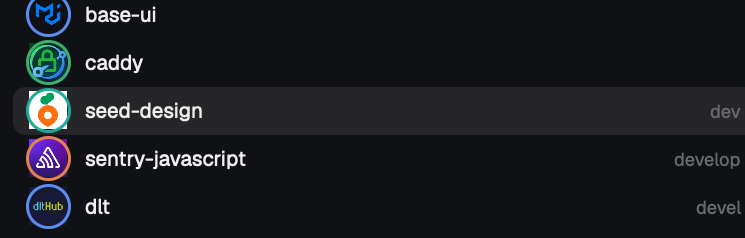
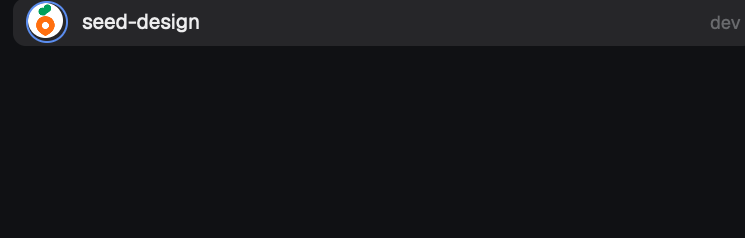
Calmer look: thin ring, round-clipped pictures, dot only for blocked or done

diff --git a/mods/spaces-pretty/main.js b/mods/spaces-pretty/main.js
@@ -382,13 +382,13 @@ export default class Spaces extends View {
 
   // Round avatar with a colored ring; a status dot on its corner when an agent works, waits or finishes.
   avatar(w, g, fill, t) {
-    const live = ["working", "blocked", "done"].includes(w.status);
+    const live = ["blocked", "done"].includes(w.status);
     const face = g?.owner
-      ? h_flex().size(24).flex_none().rounded(12).overflow_hidden().child(image(`avatars/${g.owner}.png`).size(24))
-      : h_flex().size(24).flex_none().rounded(12).bg(fill).items_center().justify_center().text_size(12).font_bold().text_color("#ffffff").child([...w.name][0]?.toUpperCase() ?? "?");
-    return div().relative().size(28).flex_none().rounded(14).border(2).border_color(fill).items_center().justify_center()
+      ? h_flex().size(22).flex_none().rounded(11).overflow_hidden().child(image(`avatars/${g.owner}.png`).size(22).rounded(11))
+      : h_flex().size(22).flex_none().rounded(11).bg(fill).items_center().justify_center().text_size(11).font_bold().text_color("#ffffff").child([...w.name][0]?.toUpperCase() ?? "?");
+    return div().relative().size(26).flex_none().rounded(13).border(1).border_color(fill).items_center().justify_center()
       .child(face)
-      .when(live, (el) => el.child(div().absolute().right(-3).bottom(-3).size(10).rounded(5).bg(tone(t, w.status)).border(2).border_color(t.chrome ?? t.background)));
+      .when(live, (el) => el.child(div().absolute().right(-2).bottom(-2).size(8).rounded(4).bg(tone(t, w.status)).border(1.5).border_color(t.chrome ?? t.background)));
   }
 
   row({ w, i, g, tree }, t) {

diff --git a/README.md b/README.md
@@ -17,8 +17,8 @@
 When you run a dozen agents across a dozen repos, the sidebar turns into a wall of identical letter tiles. spaces-pretty gives every space a face.
 
 - **GitHub owner avatar.** The org logo or user photo of the repo's `origin` becomes the space icon.
-- **Round, with a colored ring.** One color per repo, so a repo and all of its worktrees read as one family.
-- **Status dot.** A small dot on the avatar when an agent in that space is working, blocked, or done.
+- **Round, with a thin colored ring.** One color per repo, so a repo and all of its worktrees read as one family.
+- **Status dot.** A small dot on the avatar when an agent in that space is blocked or done.
 - **Tinted worktree rows.** The branch icon of a worktree takes its repo's color.
 - **Safe fallback.** No GitHub remote? You get a clean colored letter, like before.
 - **Yours still wins.** Colors you set yourself (`space.colors`) override the automatic one.

diff --git a/RECIPE.md b/RECIPE.md
@@ -3,9 +3,9 @@
 A Spaces sidebar where each space wears its GitHub owner's picture, and a repo's worktrees share a color.
 
 ## What you see
-- Space rows: a 28px round avatar (24px face inside a 2px ring in the repo color), the space name, then the usual repo/branch/ahead-behind tail.
+- Space rows: a 26px round avatar (22px face inside a 1px ring in the repo color; pictures are clipped round), the space name, then the usual repo/branch/ahead-behind tail.
 - Avatar: the GitHub owner picture when origin is on github.com, else a white bold letter (12px) on a repo-colored tile.
-- A 10px status dot on the avatar corner when the space status is working, blocked or done.
+- An 8px status dot on the avatar corner when the space status is blocked or done.
 - Worktree rows (nested under their repo): a branch icon tinted with the repo color.
 
 ## How it behaves
